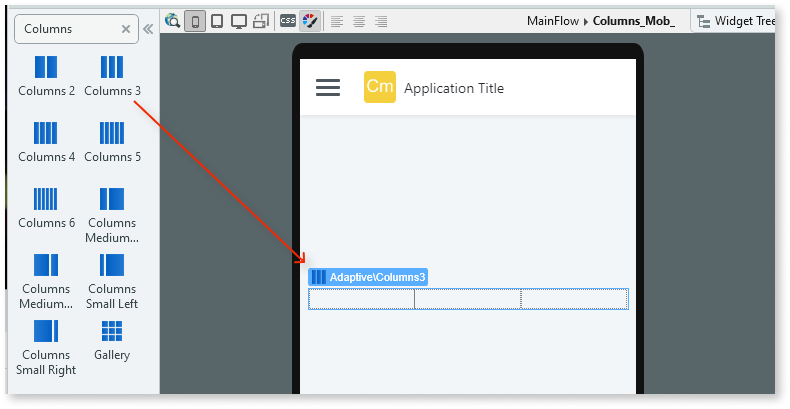
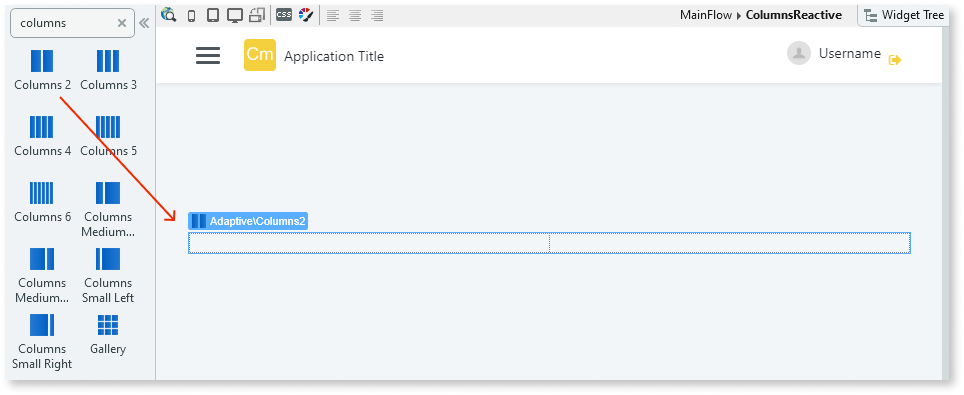
Updated Columns UI Pattern as per Paulo C's comments

diff --git a/src/develop/ui/patterns/mobile/columns.md b/src/develop/ui/patterns/mobile/columns.md
@@ -19,15 +19,17 @@ You can use the Columns UI Pattern to split content into separate columns, impro
 
     ![](images/columnsmob-image-1.png)
 
-1. From the Toolbox, drag the required Column widget into the Main Content area of your application's screen. The following example uses the Columns 3 widget.
+1. From the Toolbox, drag the required Column widget into the Main Content area of your application's screen. The following example uses the Columns 2 widget.
 
       ![](images/columnsmob-image-3.png)
 
-1. Add the required content to the Columns widget, for example, [counters](../../../../develop/ui/patterns/web/numbers/counter.md).
+1. Add the required content to the Columns widget. In this example we add an image and text.
+
+    ![](images/columnsmob-image-4.png)
 
 1. On the **Properties** tab, you can customize the Column's look and feel by setting any of the (optional) properties, for example, the size of the space between each of the columns (GutterSize), and in what order the columns display on different devices. 
 
-     ![](images/columnsmob-image-2.png)
+     ![](images/columnsmob-image-4.png)
 
 1. After following these steps, and publishing the module, you can test the pattern in your app. 
 
